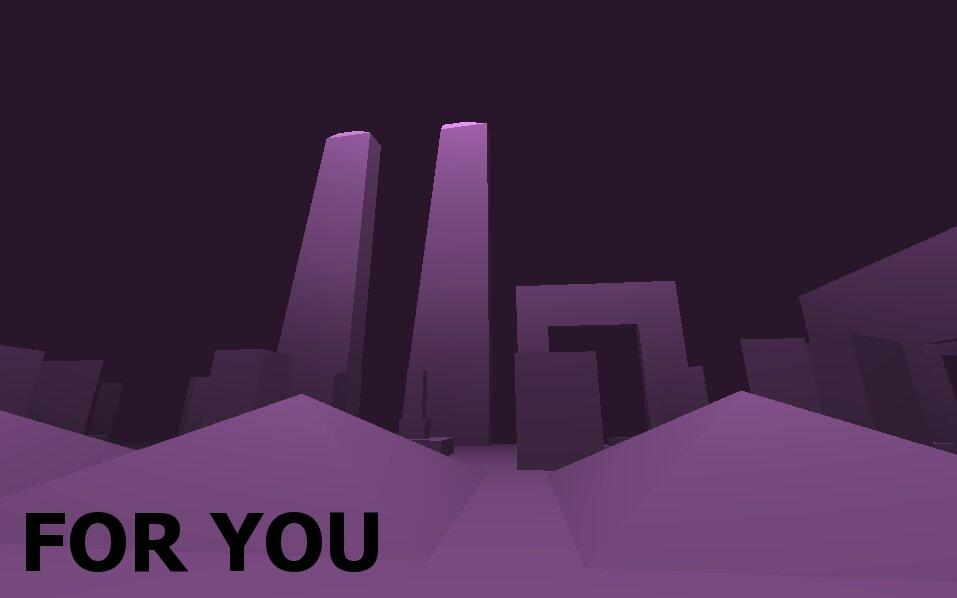
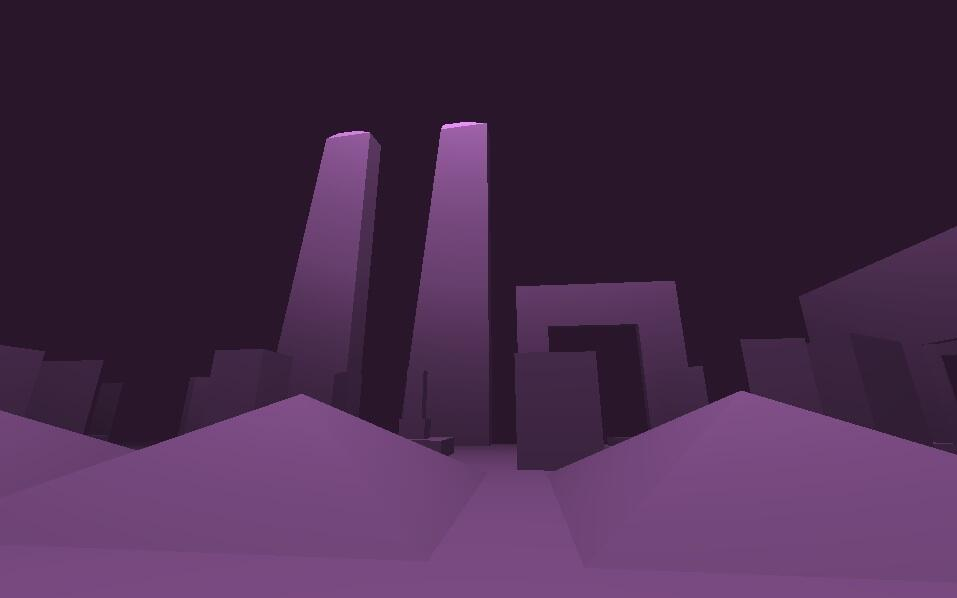
updated info for one of the games in the gallery

Changed region(s): [[0.0, 0.8428, 0.3939, 0.9632]]

diff --git a/index.html b/index.html
@@ -295,7 +295,7 @@
             </div>
             <div class="col-md-6 bottom-large-spacer">
                 <a href="https://www.dropbox.com/s/p1ffv44ezuj98ik/YouAndYouAlone.zip"><img src="/images/foryou.jpeg" class="img-responsive bottom-small-spacer" width="400px"></a>
-                <p><strong>For You</strong></p>
+                <p><strong>This City Was Built For You and You Alone</strong></p>
                 <p><strong>By: </strong><a href="https://twitter.com/thejhyde"><em>@thejhyde</em></a> </p></p>
                 <p><strong>Play it here:</strong> <a href="https://www.dropbox.com/s/p1ffv44ezuj98ik/YouAndYouAlone.zip">Web Player Build</a></p>
                 <p><strong>More Info:</strong> <a href="http://tmblr.co/ZQQGFs1F996ts">Blog post about For You</a></p>
